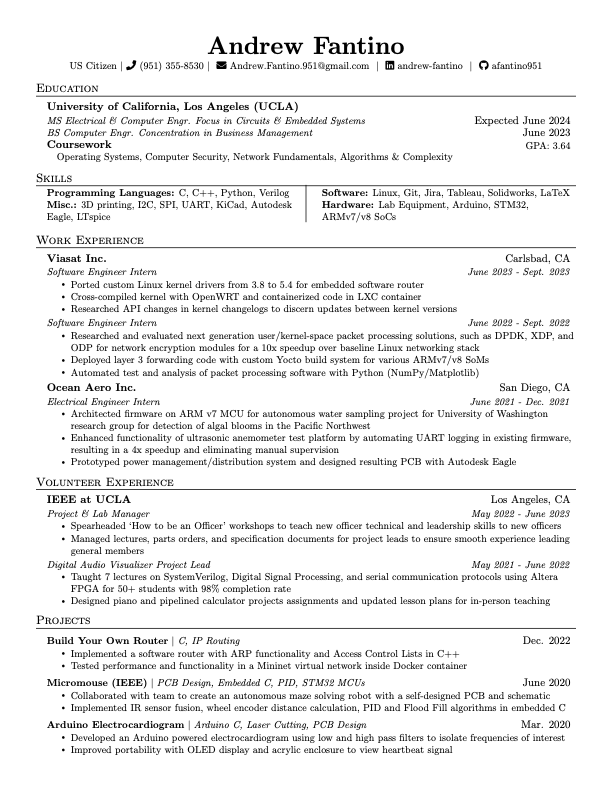
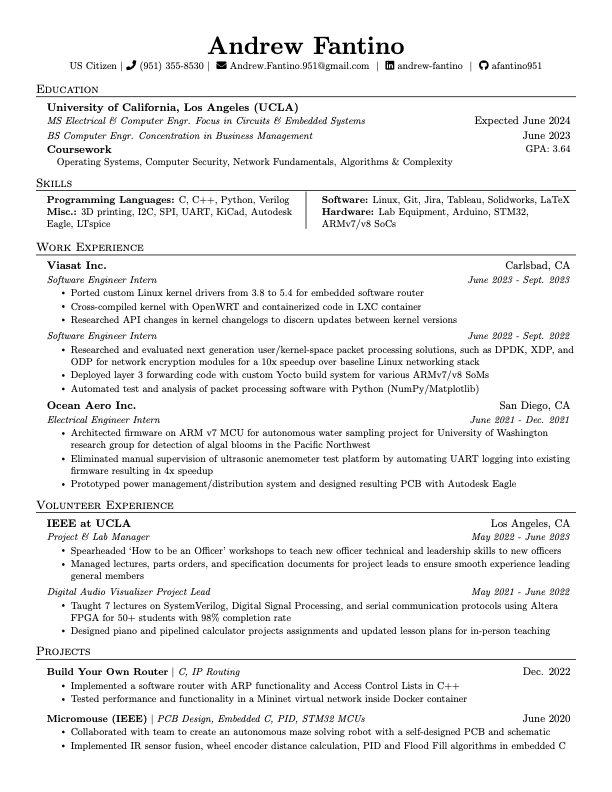
Reword OceanAero bullet point

Changed region(s): [[0.0621, 0.0909, 0.9314, 0.9697]]

diff --git a/resume.tex b/resume.tex
@@ -230,9 +230,8 @@
           research group for detection of algal blooms in the Pacific Northwest
         }
         \resumeItem{
-          Enhanced functionality of ultrasonic anemometer test platform by
-          automating UART logging in existing firmware, resulting in a 4x
-          speedup and eliminating manual supervision
+          Eliminated manual supervision of ultrasonic anemometer test platform by
+          automating UART logging into existing firmware resulting in 4x speedup
         }
         \resumeItem{
           Prototyped power management/distribution 
